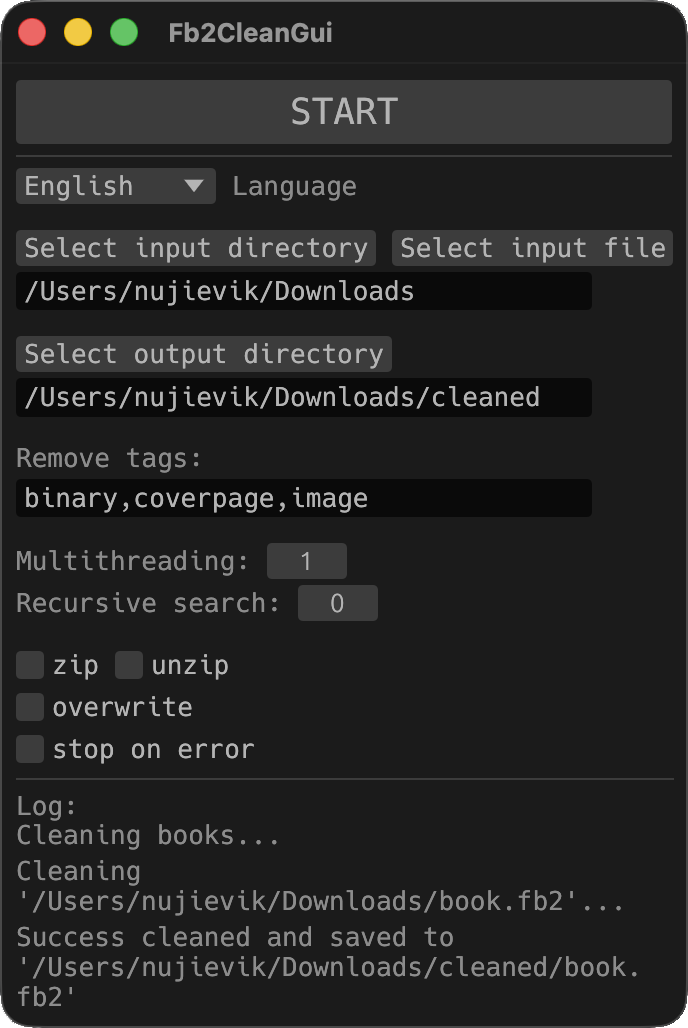
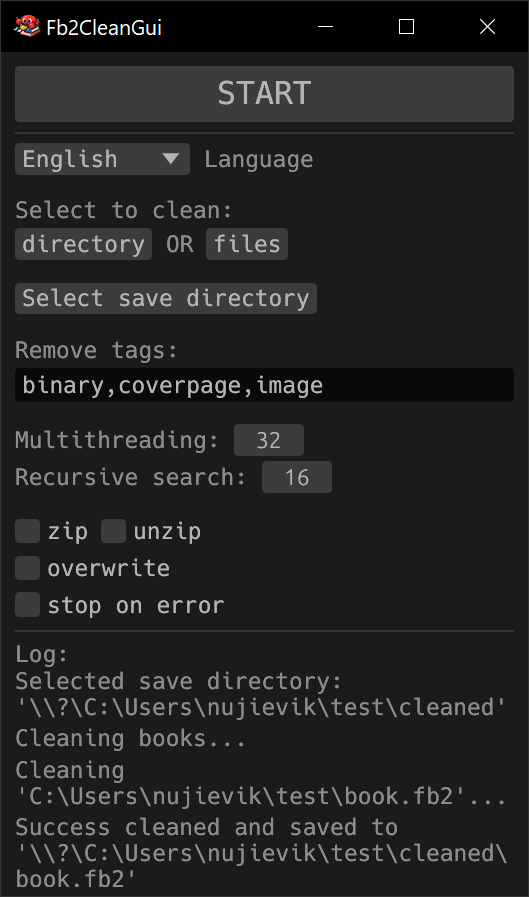
Release v0.5.0

diff --git a/src/cli/parser.rs b/src/cli/parser.rs
@@ -1,11 +1,11 @@
-use crate::{Config, Input, InputPath, Lang, Msg, Output, Tags, msg};
+use crate::{Config, Input, InputFile, InputFileType, Lang, Msg, Output, Tags, msg};
 use clap::{
     Arg, ArgAction, ArgMatches, Command, CommandFactory, Error, FromArgMatches, Parser,
     builder::{TypedValueParser, ValueParser},
     error::{ContextKind, ContextValue, ErrorKind},
     value_parser,
 };
-use std::{ffi::OsStr, str::FromStr};
+use std::{ffi::OsStr, fs, path::Path, str::FromStr};
 
 type Result<T> = std::result::Result<T, clap::Error>;
 
@@ -239,5 +239,44 @@ impl Tags {
     /// Always returns `Ok`.
     fn fallible_new(os: impl AsRef<OsStr>) -> std::result::Result<Tags, String> {
         Ok(Self::new(os))
+    }
+}
+
+#[derive(Clone, Debug, PartialEq)]
+pub enum InputPath {
+    Dir(Box<Path>),
+    File(InputFile),
+}
+
+impl InputPath {
+    pub(crate) fn new(path: impl AsRef<Path>) -> crate::Result<InputPath> {
+        let path = fs::canonicalize(path)?.into_boxed_path();
+
+        if path.is_dir() {
+            Ok(Self::Dir(path))
+        } else if let Some(ty) = InputFileType::get_new(&path) {
+            Ok(Self::File(InputFile { ty, path }))
+        } else {
+            Err("file has unsupported extension".into())
+        }
+    }
+
+    pub(crate) fn is_dir(&self) -> bool {
+        matches!(self, Self::Dir(_))
+    }
+
+    pub(crate) fn into_boxed_path(self) -> Box<Path> {
+        match self {
+            Self::Dir(p) => p,
+            Self::File(InputFile { path, .. }) => path,
+        }
+    }
+
+    // panic on Self::Dir
+    pub(crate) fn into_input_file(self) -> InputFile {
+        match self {
+            Self::Dir(_) => panic!("must be InputPath::File"),
+            Self::File(f) => f,
+        }
     }
 }

diff --git a/src/config/input.rs b/src/config/input.rs
@@ -9,12 +9,6 @@ pub enum Input {
     Files(Vec<InputFile>),
 }
 
-#[derive(Clone, Debug, PartialEq)]
-pub enum InputPath {
-    Dir(Box<Path>),
-    File(InputFile),
-}
-
 /// Input file.
 #[derive(Clone, Debug, Hash, Eq, PartialEq)]
 pub struct InputFile {
@@ -69,39 +63,6 @@ impl Input {
             Ok(Self::Files(vec![InputFile { ty, path }]))
         } else {
             Err("File has unsupported extension".into())
-        }
-    }
-}
-
-impl InputPath {
-    pub(crate) fn new(path: impl AsRef<Path>) -> Result<InputPath> {
-        let path = fs::canonicalize(path)?.into_boxed_path();
-
-        if path.is_dir() {
-            Ok(Self::Dir(path))
-        } else if let Some(ty) = InputFileType::get_new(&path) {
-            Ok(Self::File(InputFile { ty, path }))
-        } else {
-            Err("file has unsupported extension".into())
-        }
-    }
-
-    pub(crate) fn is_dir(&self) -> bool {
-        matches!(self, Self::Dir(_))
-    }
-
-    pub(crate) fn into_boxed_path(self) -> Box<Path> {
-        match self {
-            Self::Dir(p) => p,
-            Self::File(InputFile { path, .. }) => path,
-        }
-    }
-
-    // panic on Self::Dir
-    pub(crate) fn into_input_file(self) -> InputFile {
-        match self {
-            Self::Dir(_) => panic!("must be InputPath::File"),
-            Self::File(f) => f,
         }
     }
 }

diff --git a/src/lib.rs b/src/lib.rs
@@ -20,8 +20,6 @@ pub use config::{
 pub use i18n::{Lang, Msg};
 pub use remove_xml_tags::remove_xml_tags;
 
-use config::input::InputPath;
-
 fn log_prefix_root(level: log::Level) -> &'static str {
     use log::Level;
     let msg = match level {

diff --git a/CHANGELOG.md b/CHANGELOG.md
@@ -5,6 +5,17 @@ All notable changes to this project will be documented in this file.
 The format is based on [Keep a Changelog](https://keepachangelog.com/en/1.1.0/),
 and this project adheres to [Semantic Versioning](https://semver.org/spec/v2.0.0.html).
 
+## [0.5.0] - 2026-07-28
+
+### Changed
+- GUI structure.
+- Single input file to many files.
+- Log messages.
+
+### Fixed
+- Remove ANSI-codes in windows logs.
+
+
 ## [0.4.1] - 2026-04-27
 
 ### Fixed
@@ -17,6 +28,7 @@ and this project adheres to [Semantic Versioning](https://semver.org/spec/v2.0.0
 - Default jobs to the number of CPU threads.
 - Rename --force to --overwrite.
 - CLI: --recursive must contains a value.
+
 
 ## [0.3.1] - 2026-03-12
 
